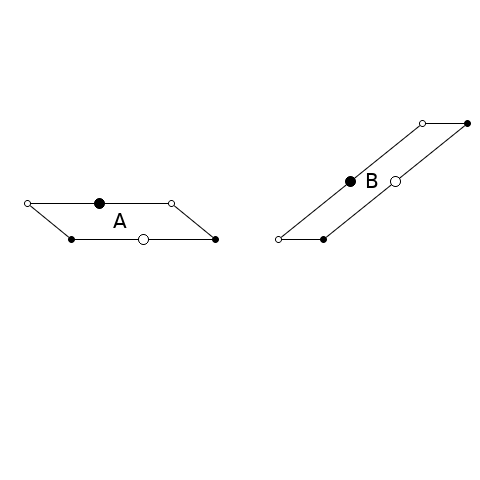
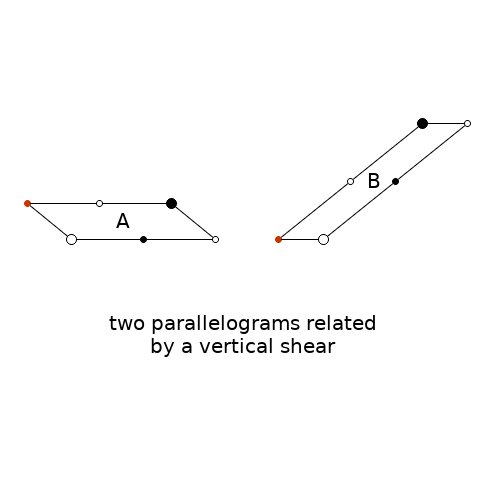
adjust horizontal centering and test colored disk

diff --git a/spacetime.py b/spacetime.py
@@ -47,7 +47,7 @@ def queue_text(center, text, color=black, pixels_per_char=5, fontsize=20):
 def discharge_all_texts():
     global texts
     for center, text, color, pixels_per_char, fontsize in texts: 
-        text_width = (3.0/4) * fontsize * max(map(len, text.split('\n')))
+        text_width = (1.0/2) * fontsize * max(map(len, text.split('\n')))
         text_height = (6.0/5) * fontsize * len(text.split('\n'))
         row, col = center
         draw.text(
@@ -98,19 +98,19 @@ def draw_example_scene():
             ('A', -oo, vv, ww),
             ('B', 0.5*oo, np.matmul(m,vv), np.matmul(m,ww))
         ):
-        a = embed(o + 0*v + 0*w) 
-        b = embed(o + 1*v + 0*w)
-        c = embed(o + 2*v + 0*w)
-        d = embed(o + 2*v + 1*w)
-        e = embed(o + 1*v + 1*w)
-        f = embed(o + 0*v + 1*w)
+        a = embed(o + 0*v + 1*w)
+        b = embed(o + 0*v + 0*w) 
+        c = embed(o + 1*v + 0*w)
+        d = embed(o + 2*v + 0*w)
+        e = embed(o + 2*v + 1*w)
+        f = embed(o + 1*v + 1*w)
 
         # note that we draw lines before disks.  this way, the disk interiors will
         # paint over the lines' tips
         for p,q in ((a,b), (b,c), (c,d), (d,e), (e, f), (f,a)):
             draw_line(img, p, q)
 
-        draw_disk(img, a, radius=3, fillcolor=black)
+        draw_disk(img, a, radius=3, fillcolor=red, color=red)
         draw_disk(img, b, radius=5, fillcolor=white)
         draw_disk(img, c, radius=3, fillcolor=black)
         draw_disk(img, d, radius=3, fillcolor=white)
@@ -120,6 +120,7 @@ def draw_example_scene():
         cc = np.mean([a,b,c,d,e,f], axis=0)
         queue_text(cc, name)
 
+    queue_text(embed([0.0, -0.4]), 'two parallelograms related\nby a vertical shear')
     return img
         
 if __name__ == '__main__':
